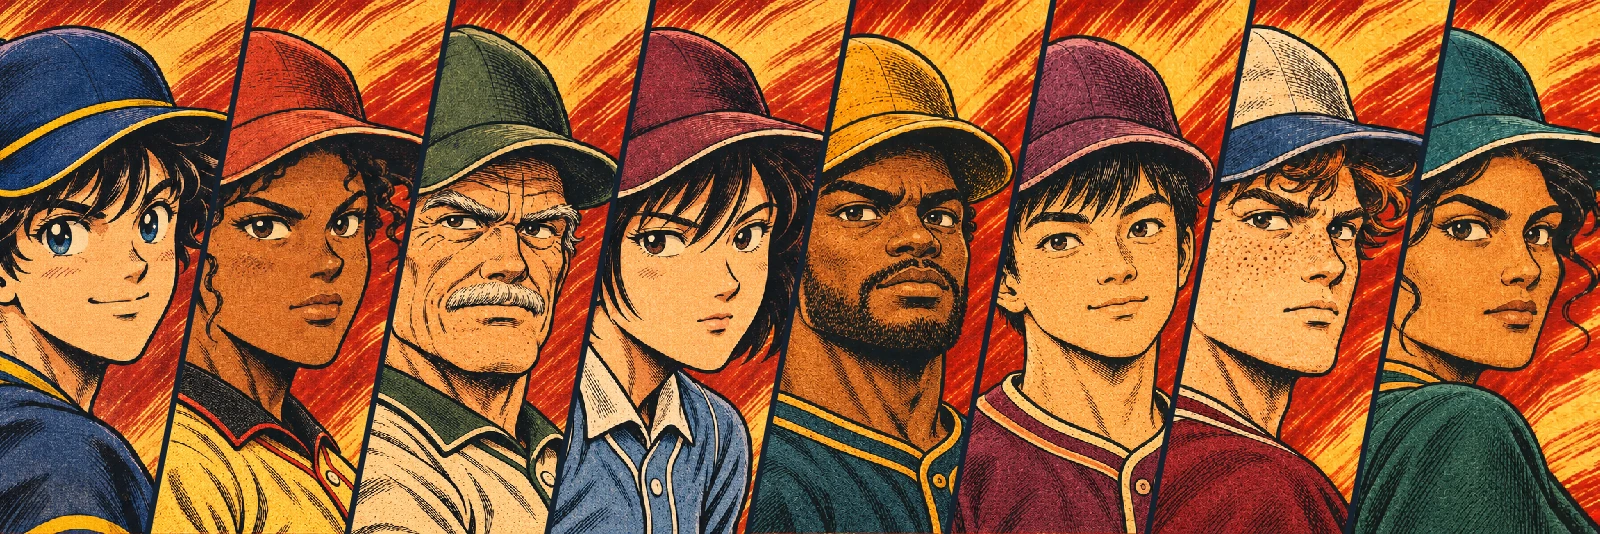
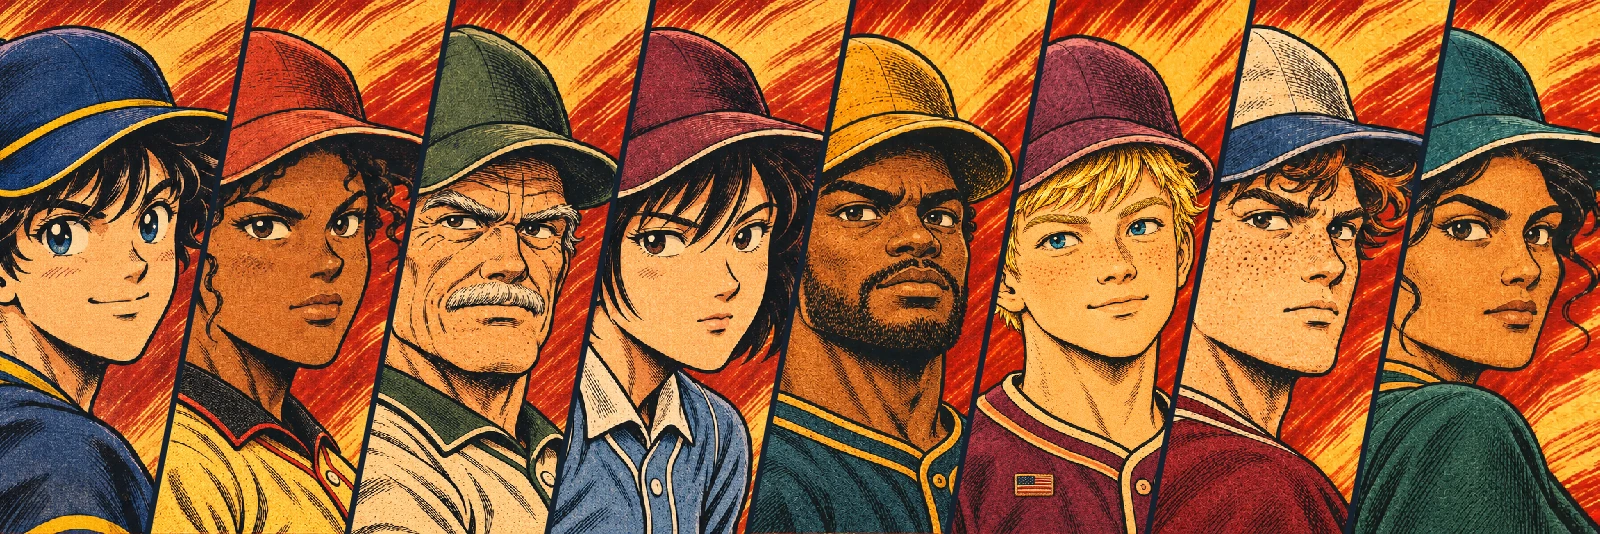
Feature the blond American pitcher in shared World 8 artwork

Changed region(s): [[0.5938, 0.0, 0.7812, 1.0]]

diff --git a/index.html b/index.html
@@ -4205,7 +4205,7 @@
         }
     </style>
     <link rel="stylesheet" href="./images/country-flags/flags.css">
-    <link rel="stylesheet" href="./game-art.css?v=world8-varied-uniforms">
+    <link rel="stylesheet" href="./game-art.css?v=world8-blond-pitcher">
     <style>
         #game-dialog {
             width: min(340px, calc(100% - 36px));
@@ -4656,7 +4656,7 @@
                 </button>
             </div>
             <header class="battle-lobby-cover">
-                <img src="./images/showa-world8-roster.webp?v=varied-uniforms" alt="" width="1600" height="534">
+                <img src="./images/showa-world8-roster.webp?v=blond-pitcher" alt="" width="1600" height="534">
                 <h1 class="battle-title" id="battle-screen-title">세계 8인 배틀</h1>
             </header>
             <div class="battle-header-badges">

diff --git a/game-art.css b/game-art.css
@@ -333,8 +333,8 @@ html[lang="zh-TW"] {
 #intro-screen #battle-quick-main-btn,
 #game-over-screen #gameover-world8-btn {
     background:
-        linear-gradient(#141f2bb8, #101a25d9),
-        #243146 url('./images/showa-world8-roster.webp?v=varied-uniforms') center 42% / cover no-repeat !important;
+        linear-gradient(90deg, #141f2b66, #141f2bb3 29% 71%, #141f2b66),
+        #243146 url('./images/showa-world8-roster.webp?v=blond-pitcher') center 42% / cover no-repeat !important;
     text-shadow: 0 3px 6px #101a25;
 }
 .w8-button-label {
